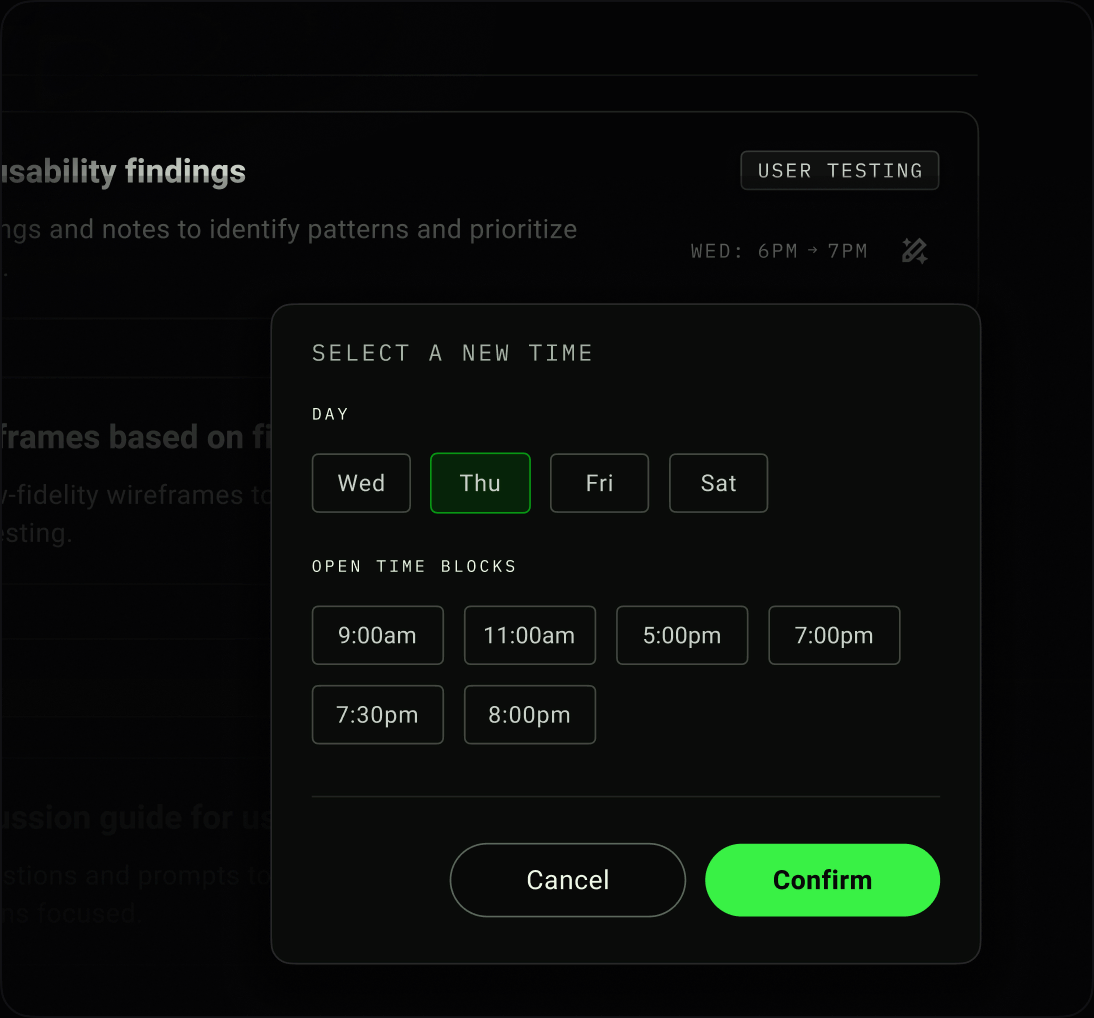
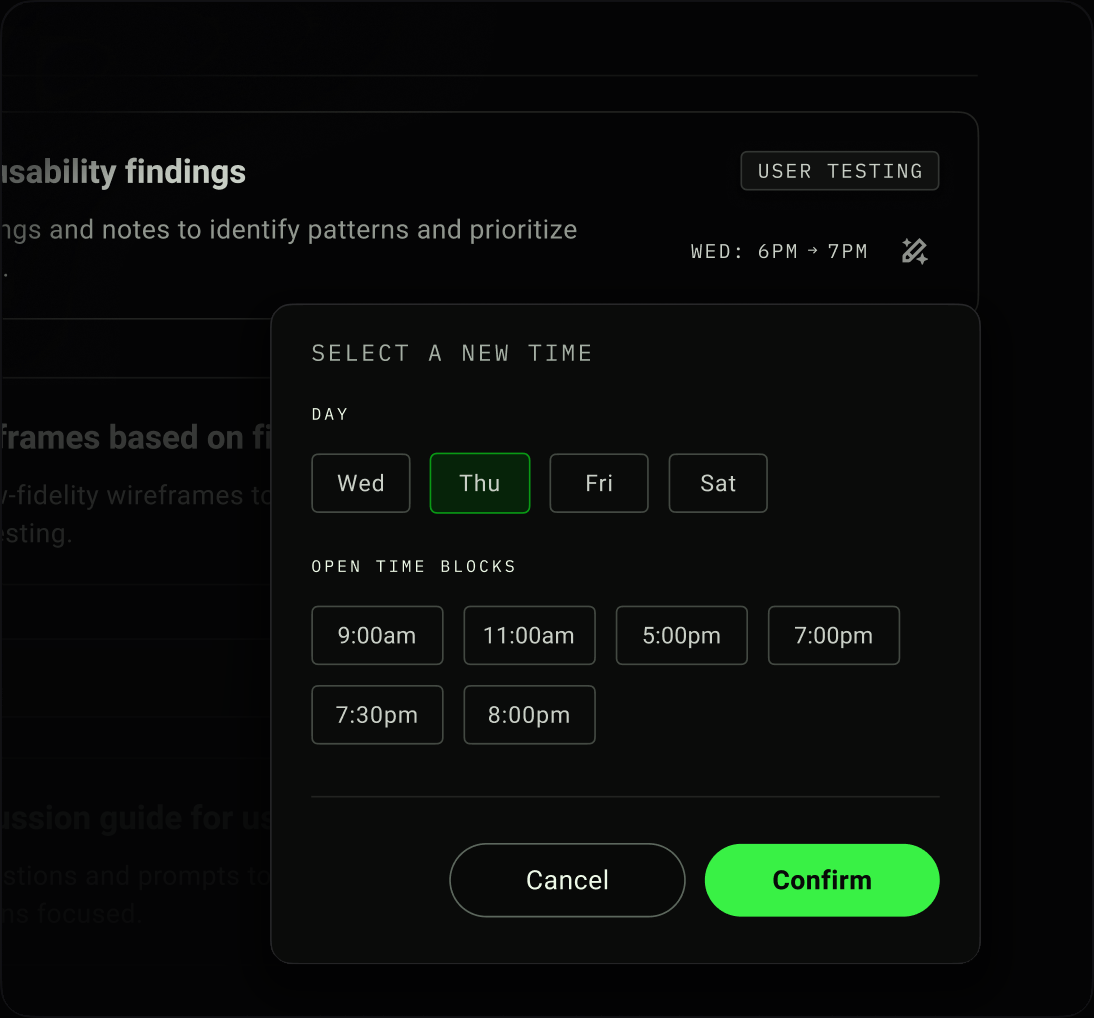
Rescheduling popover: dimming gradient now starts under the selected card, no line through its title
Rebuilt from Figma 6331:24278 layers at 2x. The gradient (Rectangle 2982) sat halfway into the
Synthesize usability findings card with a hard 26% top edge, cutting the title and dimming the card
it is meant to spotlight. Now it fades in from 0% at that card's bottom edge. Popover shadow rebuilt
from Figma's effect values. Report in reports/popover-shadow-2026-11-20.

Claude-Session: https://claude.ai/code/session_01NtNprqKA11HBh4hJyZy5eV

diff --git a/reports/popover-shadow-2026-11-20/tools/rebuild.py b/reports/popover-shadow-2026-11-20/tools/rebuild.py
@@ -1,0 +1,71 @@
+"""Rebuild the Rescheduling popover image (Figma 6331:24278) at 2x with the dimming gradient
+starting under the selected card instead of halfway through it.
+
+Inputs, all 2x exports from Figma file 5RO0m4bYYrTvbiaOgaU3tI:
+  current  the shipped image (export of the whole group, used for the frame border and corners)
+  list     6331:24279, the Action item list plus its blur blob (no gradient, no popover)
+  popover  6331:24377, the popover, exported on black with its shadow baked in
+Usage: python3 rebuild.py current.png list.png popover.png out.png [gradient_top_1x]
+"""
+import sys
+import numpy as np
+from PIL import Image, ImageDraw, ImageFilter
+
+cur_p, list_p, pop_p, out_p = sys.argv[1:5]
+TOP = float(sys.argv[5]) if len(sys.argv) > 5 else 159.1   # bottom edge of "Synthesize usability findings" card
+S = 2                                    # export scale
+OX, OY = 1, 1                            # frame origin inside the current export (outside stroke)
+cur = np.asarray(Image.open(cur_p).convert('RGB')).astype(np.float64)
+H, W, _ = cur.shape
+L = np.asarray(Image.open(list_p).convert('RGB')).astype(np.float64)
+P = np.asarray(Image.open(pop_p).convert('RGB')).astype(np.float64)
+C = np.array([4, 4, 5.])                 # gradient colour #040405 from Rectangle 2982
+
+# 1. card list, placed where it sits in the shipped export (measured offset 1,4)
+base = np.full_like(cur, 4.0)
+lh, lw = min(L.shape[0], H - 4), min(L.shape[1], W - 1)
+base[4:4 + lh, 1:1 + lw] = L[:lh, :lw]
+
+# 2. dimming gradient: Figma's stops and colour, but the rect now starts at the selected card's
+#    bottom edge and fades in from 0% so it has no hard top edge.
+#    Figma: 26% at top, 74% at 12.2% (53px), 100% at 522px. New: 0% at TOP, 74% at TOP+53, 100% at 522.
+def alpha(yf):
+    if yf <= TOP: return 0.0
+    k = TOP + 53.0
+    if yf < k:
+        t = (yf - TOP) / 53.0
+        return 0.74 * (t * t * (3 - 2 * t))          # smoothstep so the start has no visible edge
+    return min(1.0, 0.74 + (yf - k) / (522.0 - k) * 0.26)
+a = np.array([alpha((y - OY) / S) for y in range(H)])[:, None, None]
+img = base * (1 - a) + C * a
+
+# 3. popover drop shadow, rebuilt from Figma's effect: 0 8.27 blur 14.39 spread 11.58 black 47%
+px, py, pw, ph, pr = 135.5, 152.0, 353.9, 328.9, 9.926
+sp, dy, blur = 11.58, 8.2717, 14.3928
+m = Image.new('L', (W, H), 0)
+ImageDraw.Draw(m).rounded_rectangle(
+    [OX + (px - sp) * S, OY + (py - sp + dy) * S, OX + (px + pw + sp) * S, OY + (py + ph + sp + dy) * S],
+    radius=(pr + sp) * S, fill=255)
+m = m.filter(ImageFilter.GaussianBlur(blur * S / 2))
+sh = (np.asarray(m).astype(np.float64) / 255 * 0.47)[:, :, None]
+img = img * (1 - sh)
+
+# 4. popover body from its own export (offset 108.7,133.5 render bounds), stroke outside 0.83px
+pm = Image.new('L', (W, H), 0)
+so = 0.827
+ImageDraw.Draw(pm).rounded_rectangle(
+    [OX + (px - so) * S, OY + (py - so) * S, OX + (px + pw + so) * S - 1, OY + (py + ph + so) * S - 1],
+    radius=(pr + so) * S, fill=255)
+pm = (np.asarray(pm.filter(ImageFilter.GaussianBlur(0.5))).astype(np.float64) / 255)[:, :, None]
+pop_full = np.zeros_like(img)
+x0, y0 = 272 - 54, 305 - 37              # measured: popover body at 272,305 in the export, 54,37 in its own
+ys, xs = slice(max(0, y0), min(H, y0 + P.shape[0])), slice(max(0, x0), min(W, x0 + P.shape[1]))
+pop_full[ys, xs] = P[ys.start - y0:ys.stop - y0, xs.start - x0:xs.stop - x0]
+img = img * (1 - pm) + pop_full * pm
+
+# 5. keep the shipped frame border and rounded corners: paste only the frame interior
+fm = Image.new('L', (W, H), 0)
+ImageDraw.Draw(fm).rounded_rectangle([3, 3, W - 4, H - 4], radius=24, fill=255)
+fm = (np.asarray(fm).astype(np.float64) / 255)[:, :, None]
+out = cur * (1 - fm) + img * fm
+Image.fromarray(np.clip(out.round(), 0, 255).astype(np.uint8)).save(out_p)

diff --git a/reports/popover-shadow-2026-11-20/FINDINGS.md b/reports/popover-shadow-2026-11-20/FINDINGS.md
@@ -1,0 +1,23 @@
+# Rescheduling popover shadow (20 Nov)
+
+## What the gradient is for
+It dims every other Action Item so only the one being rescheduled stays lit, which ties that card to
+the "Select a new time" popover hanging off its reschedule icon.
+
+## What was wrong
+Figma frame 6331:20607, group 6331:24278. Rectangle 2982 (6331:24376) is the dimming layer: #040405,
+vertical gradient 26% at its top edge, 74% at 53px, 100% at the bottom. Its top edge sat 87px into the
+illustration, halfway through the selected card ("Synthesize usability findings", 55 to 159px). So it:
+- cut the white title in half with a hard 26% step (title pixels 205 above, 154 below)
+- dimmed the description, the WED 6PM to 7PM time and the reschedule icon, the very card it should show.
+The same rectangle is in every CS frame (OLD 5763, NEW 6228, BACKUP 6297, most current 6331); the
+shipped image matched Figma exactly, so the site did not break it. The Figma frame has the same line.
+The product's own desktop screens (Home page 2474:7775 list view, 2882:34590 schedule view) were
+checked: neither has this gradient; the list view shows the popover hanging under its card.
+
+## Fix
+Rebuilt the image at 2x from Figma's own layers (tools/rebuild.py): the card list 6331:24279, then the
+gradient with Figma's colour and stops but starting at the selected card's bottom edge (159px) and
+fading in from 0%, then the popover's drop shadow from Figma's effect values, then the popover
+6331:24377. The frame border and corners come from the shipped export. Lossless webp, 1094 x 1018.
+Figma itself is not edited.

diff --git a/reports/popover-shadow-2026-11-20/GATES.md b/reports/popover-shadow-2026-11-20/GATES.md
@@ -1,0 +1,15 @@
+# Gates: Rescheduling popover shadow (20 Nov)
+
+Task: the dark gradient behind the "Select a new time" popover leaves a line on "usability findings"
+and sits in the wrong place. Its job: dim every other Action Item so only the card being rescheduled
+shows (his words, 20 Nov).
+
+- [x] G1 Figma read: layers, gradient stops, blend and extent written in FINDINGS.md from the frame.
+- [x] G2 No line: the title "usability findings" has one brightness top to bottom (2x rows 160 to 188
+  all 204 in the new image; old dropped 205 to 154 at row 176).
+- [x] G3 Role: the whole selected card (title, description, time, icon) is undimmed and every other
+  card is dimmed. Checked by eye in before-after.png and the live shots.
+- [x] G4 Sharp at 2x: built from 2x Figma exports, lossless webp, 1094 x 1018 for a 547 x 509 slot.
+- [x] G5 Breakpoints: live shots at 390, 768 and 1440, reduced motion on and off, in shots/. Layout unchanged.
+- [x] G6 Scope: only the image and this report folder change. No CSS, no HTML, no heading spacing.
+- [ ] G7 Shipped: pushed, draft PR into claude/relaxed-ride-5mlbdu, preview artifact, lead told.
